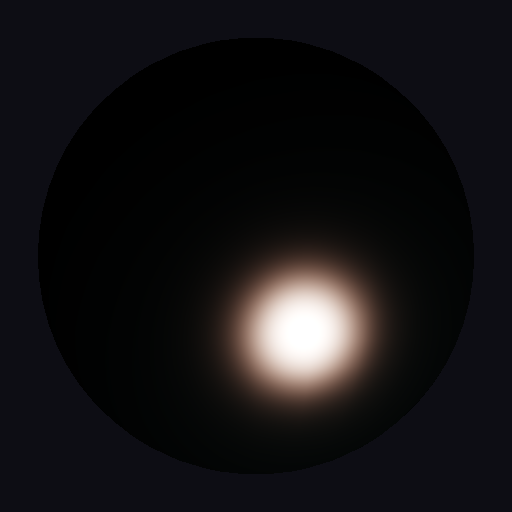
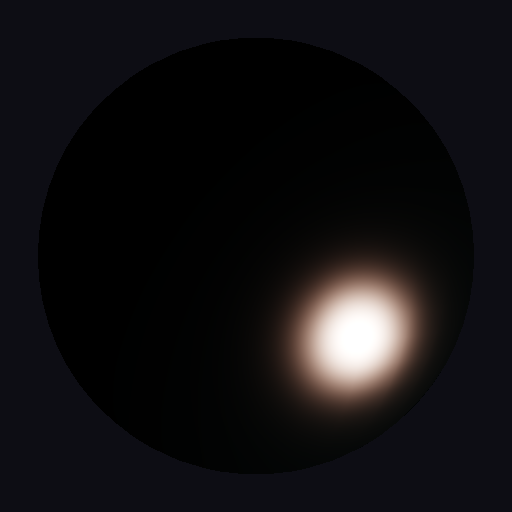
Update PBR light direction for better sphere illumination
Changed light from (0.5, 0.8, 1.0) to (1.0, 0.8, 0.6) across all renderers
(Python, C++, Rust) and surface expander for more flattering 3/4 lighting.

Changed region(s): [[0.4062, 0.4688, 0.875, 0.8125]]

diff --git a/playground/render_pbr.py b/playground/render_pbr.py
@@ -172,7 +172,7 @@ def render_pbr(
     )
 
     # --- Light uniform buffer (std140: vec3 padded to 16 bytes each) ---
-    light_dir = np.array([0.5, 0.8, 1.0], dtype=np.float32)
+    light_dir = np.array([1.0, 0.8, 0.6], dtype=np.float32)
     light_dir = light_dir / np.linalg.norm(light_dir)
     light_data = struct.pack("3f", *light_dir) + struct.pack("f", 0.0)  # pad
     light_data += struct.pack("3f", *eye) + struct.pack("f", 0.0)       # pad

diff --git a/luxc/expansion/surface_expander.py b/luxc/expansion/surface_expander.py
@@ -644,7 +644,7 @@ def _expand_surface_to_closest_hit(
 
     # Light direction (default: overhead directional)
     body.append(LetStmt("l", "vec3", CallExpr(VarRef("normalize"), [
-        ConstructorExpr("vec3", [NumberLit("1.0"), NumberLit("1.0"), NumberLit("0.5")]),
+        ConstructorExpr("vec3", [NumberLit("1.0"), NumberLit("0.8"), NumberLit("0.6")]),
     ])))
 
     # Evaluate the BRDF from the surface declaration

diff --git a/playground_rust/src/raster_renderer.rs b/playground_rust/src/raster_renderer.rs
@@ -1029,7 +1029,7 @@ fn render_pbr(
     )?;
 
     // Light uniform buffer (32 bytes: light_dir vec4 + camera_pos vec4)
-    let light_dir = glam::Vec3::new(0.5, 0.8, 1.0).normalize();
+    let light_dir = glam::Vec3::new(1.0, 0.8, 0.6).normalize();
     let camera_pos = DefaultCamera::EYE;
     let mut light_data = [0u8; 32];
     light_data[0..12].copy_from_slice(bytemuck::cast_slice(light_dir.as_ref()));

diff --git a/playground_cpp/src/raster_renderer.cpp b/playground_cpp/src/raster_renderer.cpp
@@ -409,7 +409,7 @@ void RasterRenderer::setupPBRResources(VulkanContext& ctx) {
         float _pad1;
     };
 
-    glm::vec3 lightDir = glm::normalize(glm::vec3(0.5f, 0.8f, 1.0f));
+    glm::vec3 lightDir = glm::normalize(glm::vec3(1.0f, 0.8f, 0.6f));
     LightData lightData = {lightDir, 0.0f, Camera::DEFAULT_EYE, 0.0f};
 
     VkBufferCreateInfo lightBufInfo = {};
